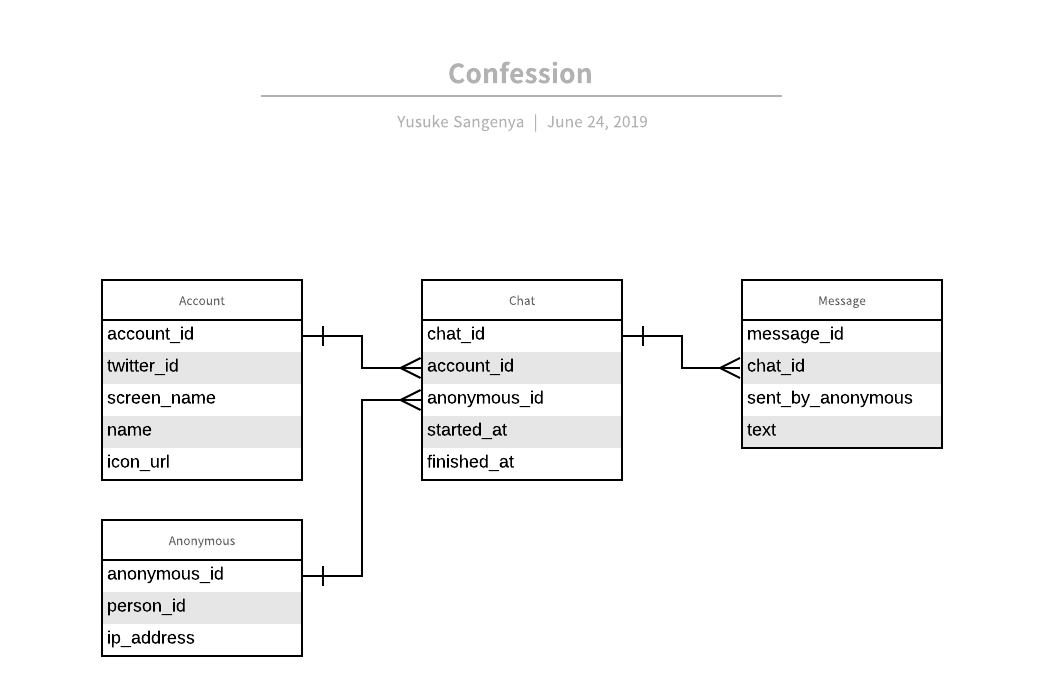
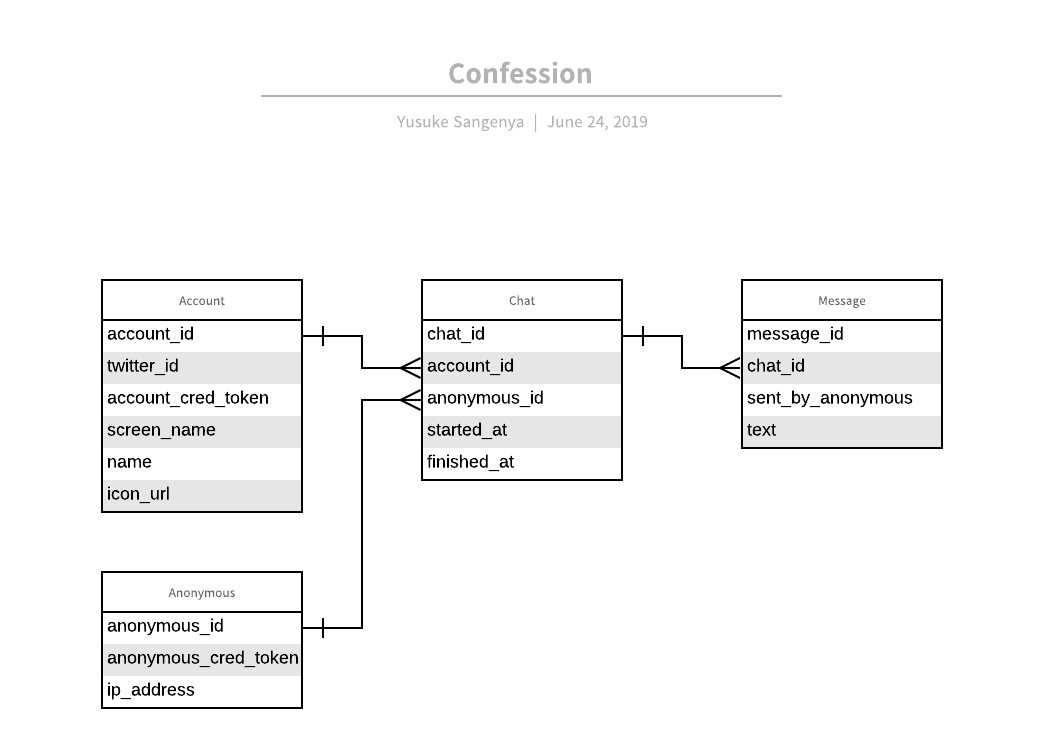
update tech-design

diff --git a/doc/tech-design.md b/doc/tech-design.md
@@ -6,6 +6,7 @@
   - Frontend: Vue.js
   - Backend: Go
   - Database: PostgreSQL
+  - Communication method: WebSocket
 
 ### Domain Language
 
@@ -21,3 +22,26 @@
 ### ER図
 
 ![](./erd.png)
+
+### Backend Technologies
+
+- net/http
+- httprouter: https://github.com/julienschmidt/httprouter
+- authorization
+  - Authorization: Bearer <Token>
+    - https://tools.ietf.org/html/rfc6750
+    - https://qiita.com/uasi/items/cfb60588daa18c2ec6f5
+- query builder
+  - https://github.com/doug-martin/goqu
+- migration
+  - https://github.com/golang-migrate/migrate
+- websocket
+  - https://godoc.org/github.com/gorilla/websocket
+
+### Frontend Technologies
+
+- localStorage
+  - store authorization token
+  - https://developer.mozilla.org/en-US/docs/Web/API/Window/localStorage
+- websocket
+  - https://developer.mozilla.org/en-US/docs/Web/API/WebSockets_API
